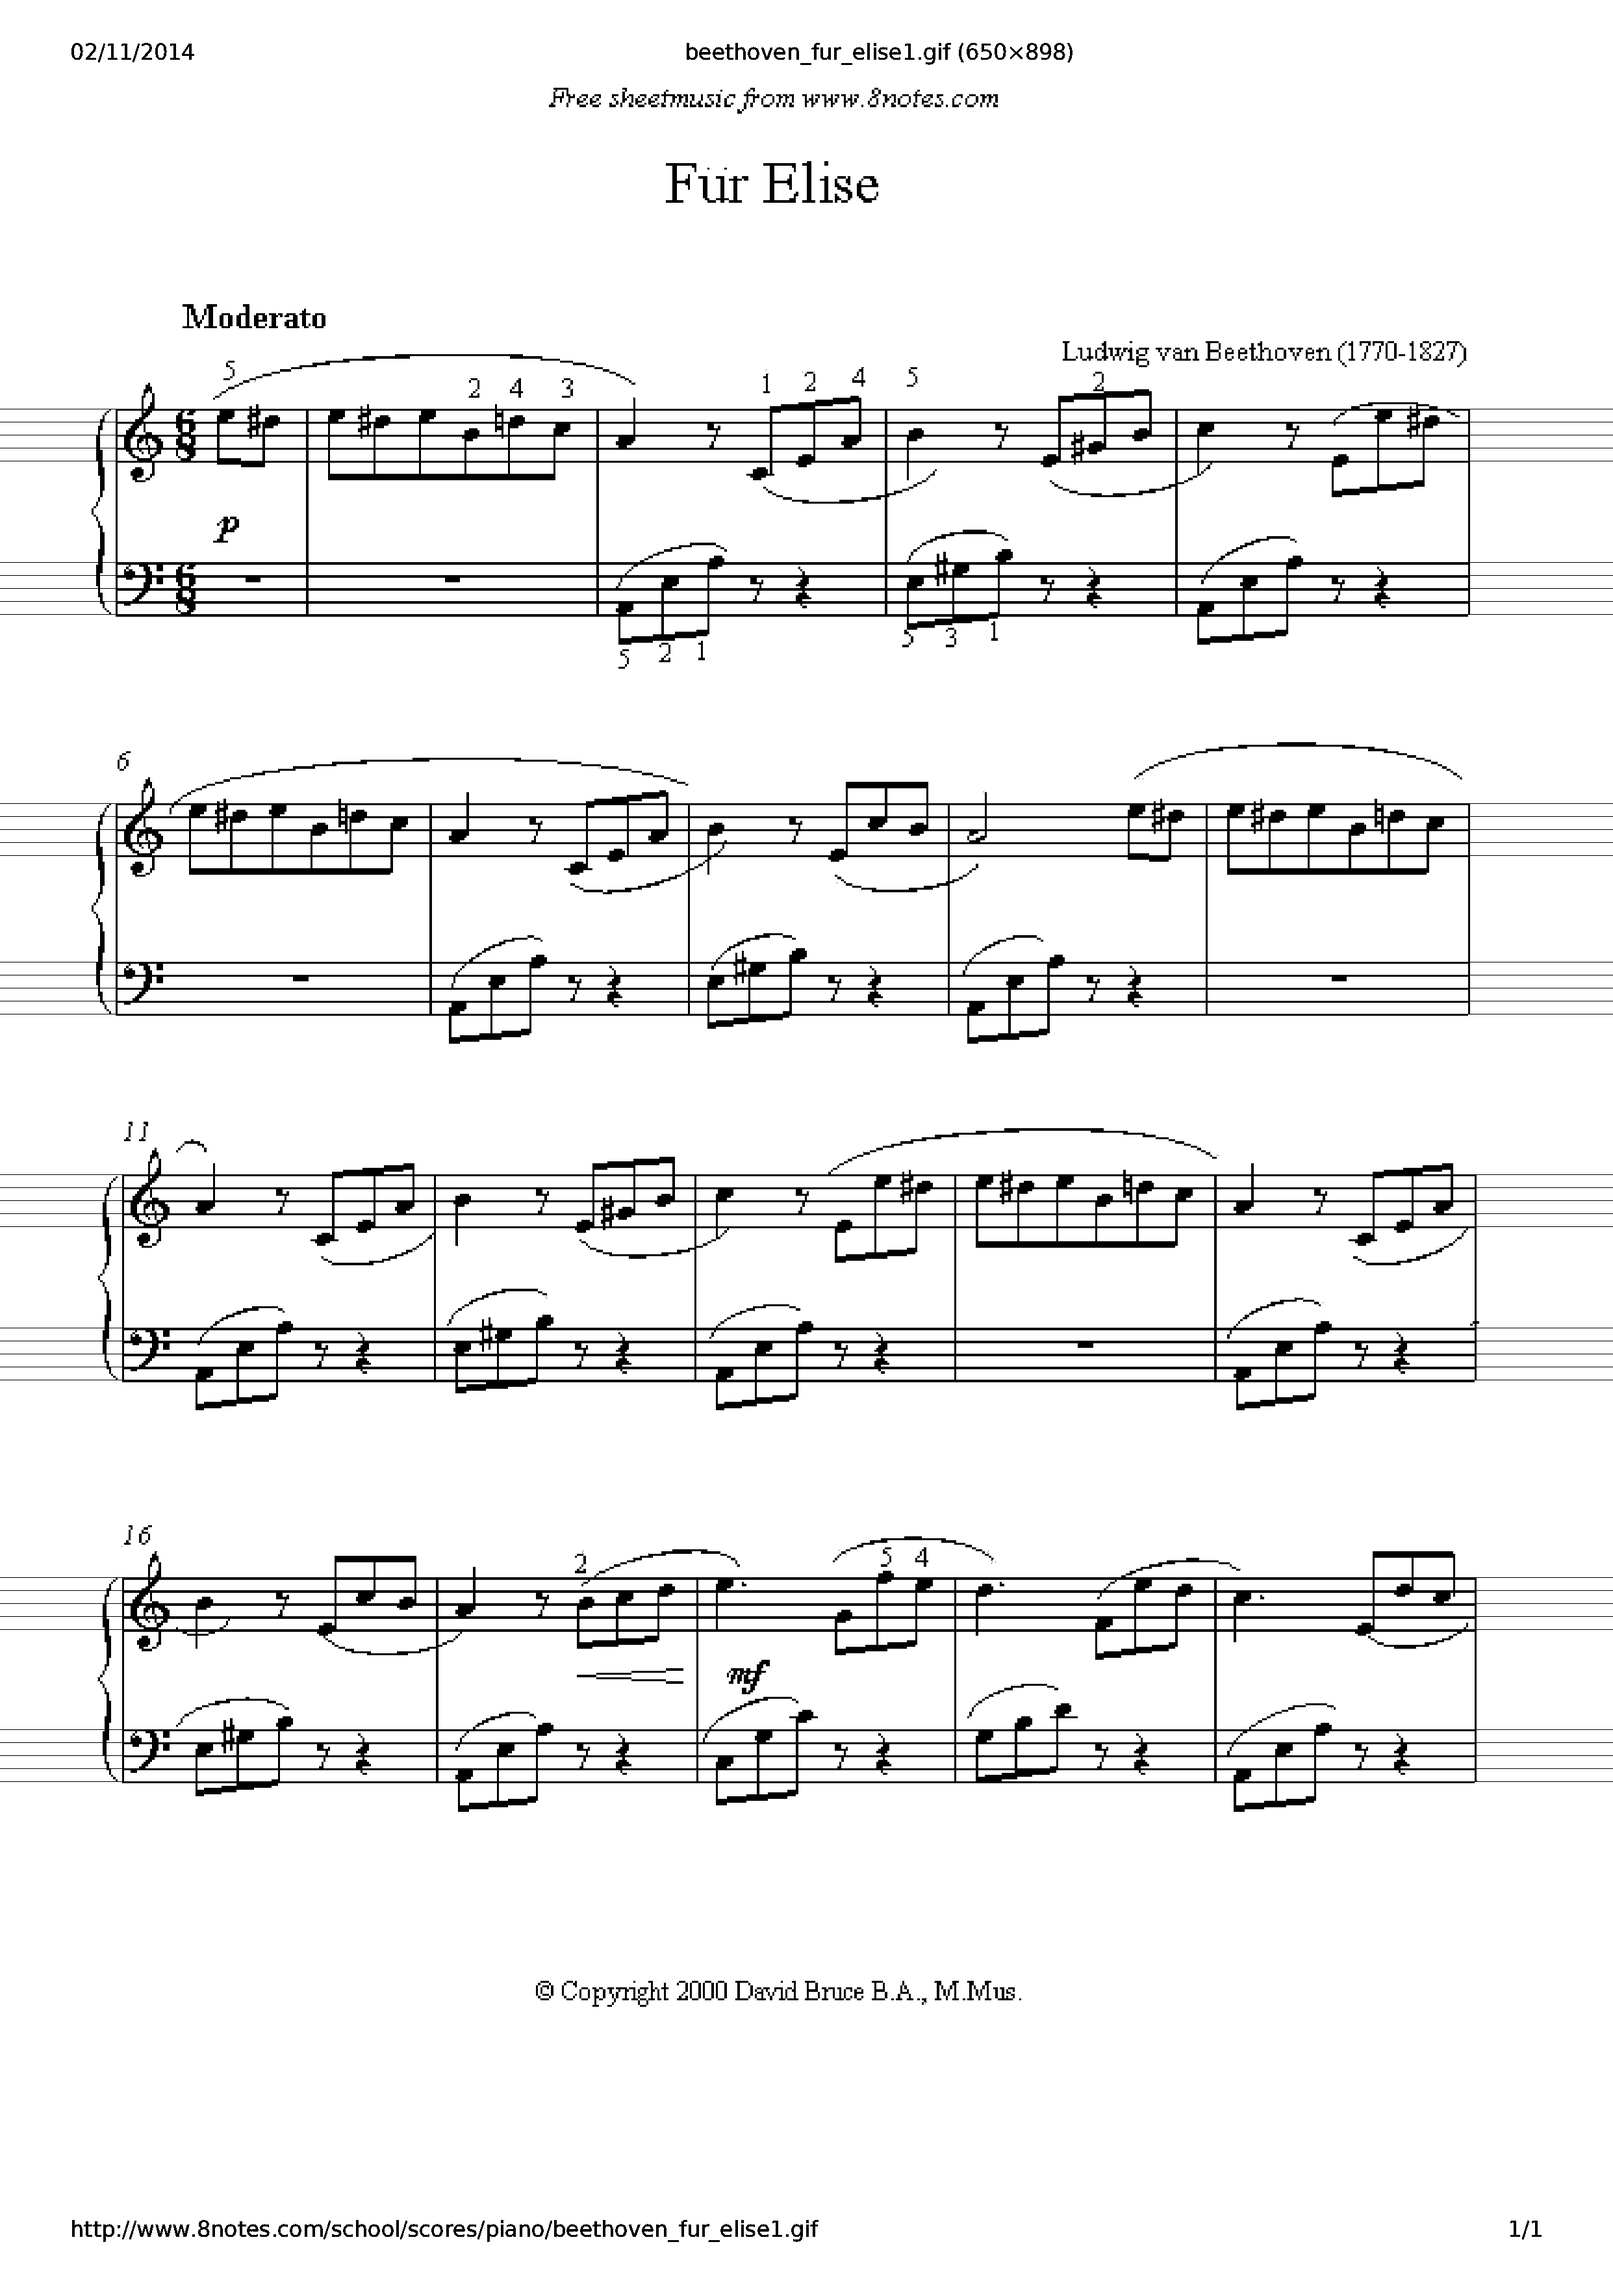
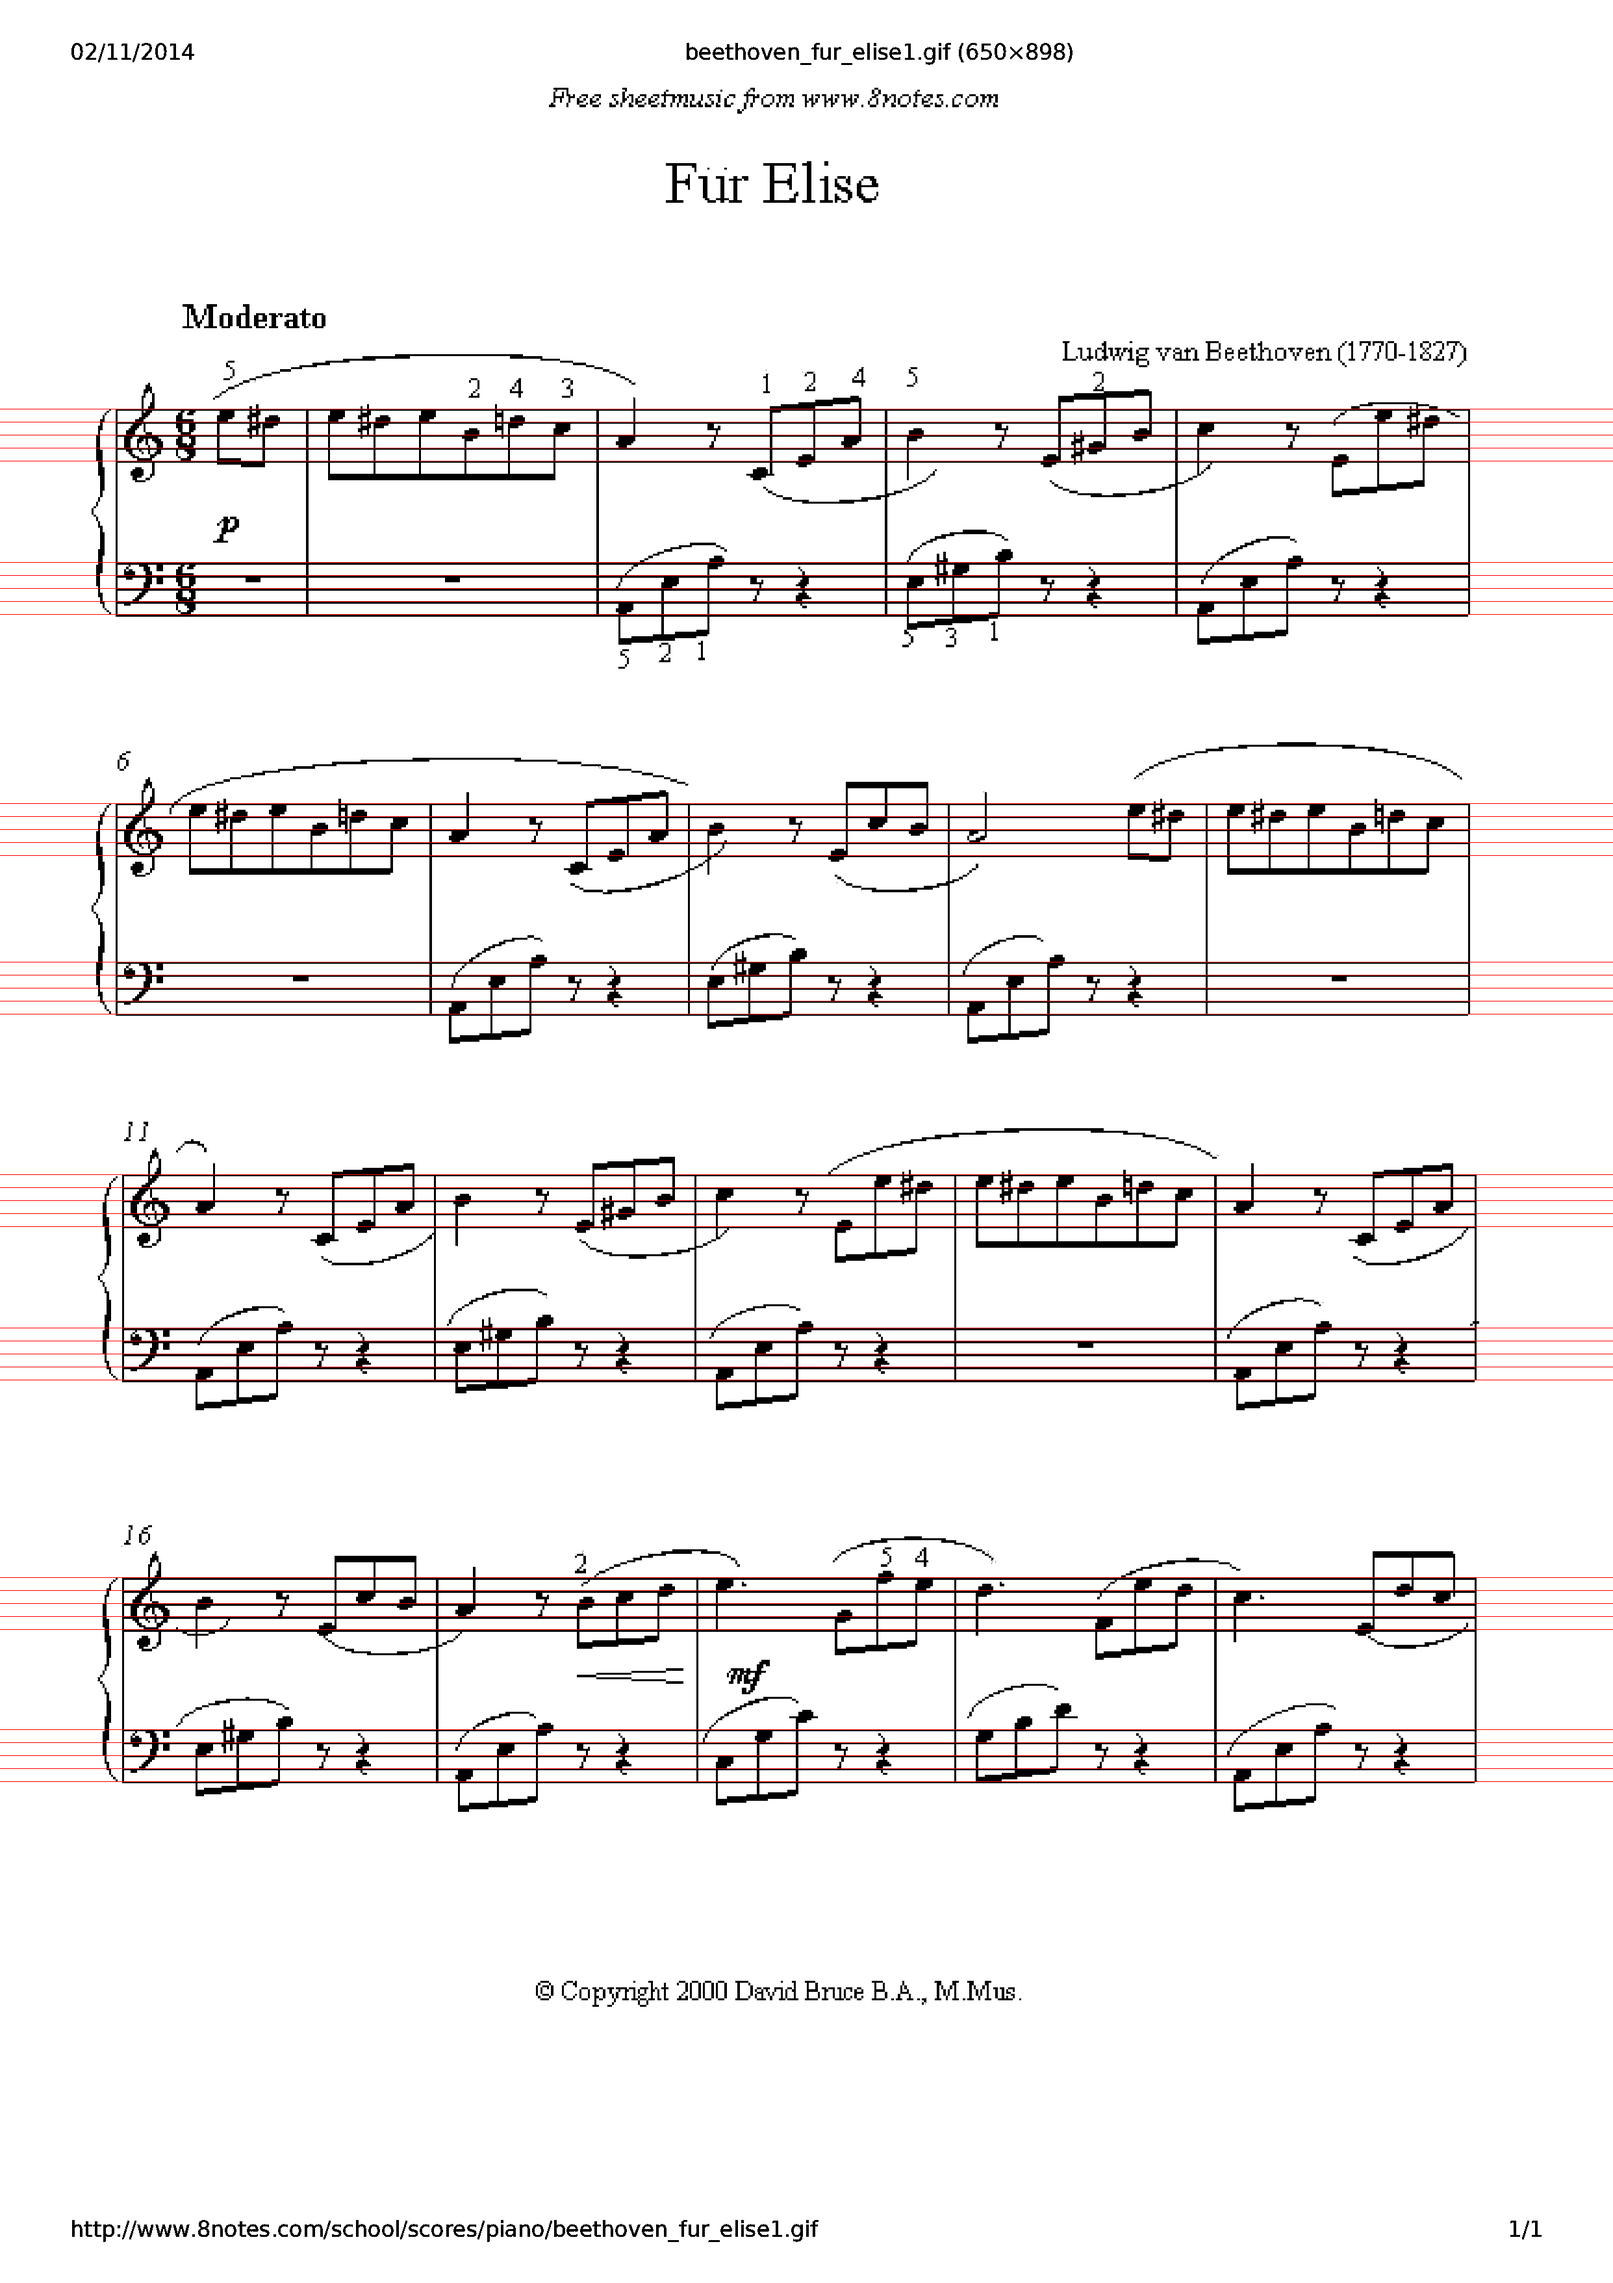
Modified staff line removal algorithm to also remove lines through notes that lie above or below the staff lines.

diff --git a/Source/omr_recognition.py b/Source/omr_recognition.py
@@ -43,6 +43,8 @@ def matchTemplates(img,staffData):
 		('treble clef','treble_clef_template.png',20),
 		('bass clef','bass_clef_template.png',20),
 		('crotchet rest','crotchet_rest_template.png',20),
+		('time signature 8','time_signature_8_template.png',20),
+		('time signature 6','time_signature_6_template.png',20),
 		('time signature 4','time_signature_4_template.png',20),
 		('time signature 3','time_signature_3_template.png',20),
 		('quaver rest','quaver_rest_template.png',20),
@@ -62,6 +64,8 @@ def matchTemplates(img,staffData):
 		'treble clef': [],
 		'bass clef': [],
 		'crotchet rest': [],
+		'time signature 8': [],
+		'time signature 6': [],
 		'time signature 4': [],
 		'time signature 3': [],
 		'quaver rest': [],

diff --git a/Source/omr_staff_line_removal.py b/Source/omr_staff_line_removal.py
@@ -8,7 +8,7 @@ import omr_classes
 def removeStaffLines(img,staff):
 	width = len(img[0])
 	for y in staff.tops:
-		for i in range(0,5):
+		for i in range(-2,7):
 			for j in range(0,staff.lineThickness+1):			
 				currentY = y + staff.lineSpacing*i + j
 				cv2.line(img,(0,currentY),(width,currentY),255)

diff --git a/Source/omr_staff_line_detection.py b/Source/omr_staff_line_detection.py
@@ -136,7 +136,7 @@ def getStaffData(imgInput):
 
 	# Show staff lines on copy of input image
 	imgStaffLines = imgInput.copy()
-
+	imgStaffLines = cv2.cvtColor(imgStaffLines,cv2.COLOR_GRAY2RGB)
 	for rho in staffTops:
 		for i in range(0,5):
 			y = rho + i*staffLineSpacing
